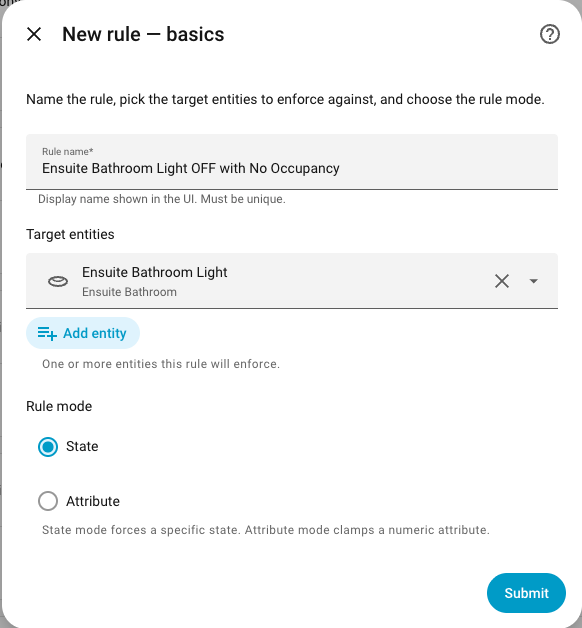
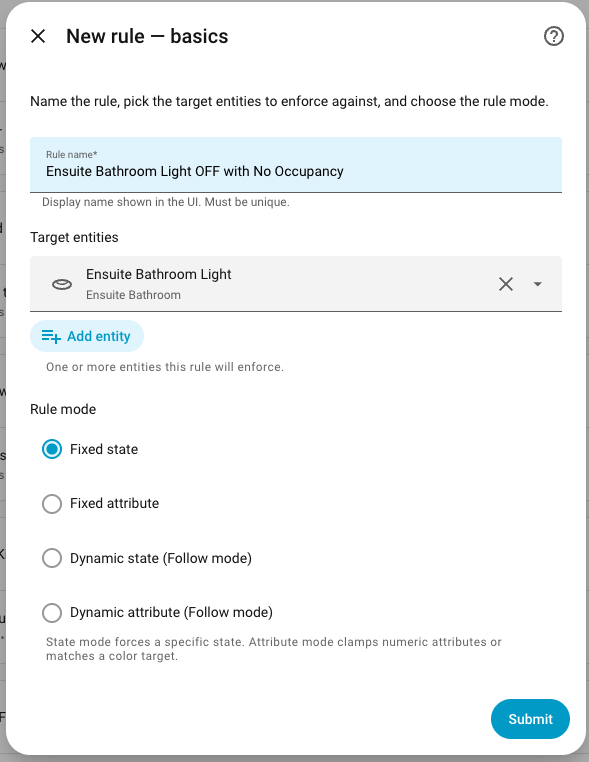
docs: refresh screenshots and fix stale docs (#83)
- Add missing screenshots (03d dynamic state, 03e dynamic attribute,
  16 trigger picker) that README referenced but did not exist
- Replace stale 02_rule_basics (4 modes incl. Follow) and 14_card_editor
  (Config/Visibility/Layout tabs, Show conditions toggle)
- README: fix dynamic-state delay (split on/off), add Mode + Verify to
  card config section, fix event rule_id example (ULID -> UUID), drop
  resolved screenshot-placeholder comments
- info.md: add 0.5.0 What's new (any-rule triggers, BREAKING HA floor),
  "Flag conditions" -> "Conditions" vocab
- SECURITY.md: supported version 0.0.x -> 0.5.x
- assets/README.md: rewrite screenshot manifest to match actual files
- BEHAVIOR_REFERENCE.md: drop brittle const.py line-number cite
- Remove stale BACKLOG.md

diff --git a/README.md b/README.md
@@ -143,13 +143,13 @@ Dynamic state binds the target's **on/off** to a live value read from a **source
 | Read value from | **State** (default) — use the source's on/off state. **Attribute** — use one of the source's attributes instead. |
 | Source attribute | *(only when reading from an attribute)* Name of the source attribute to read. Its value is reduced to on/off: a non-zero number, or an on-ish state string, is **on**; `0`, an off-ish word, or empty is **off**. |
 | Invert | Off (default) = *mirror* (source on → target on). On = *invert* (source on → target off). |
-| Delay (seconds) | Wait this long before enforcing (0-86400) |
+| Delay when turning on (seconds) | Wait before driving a target on (0-86400) |
+| Delay when turning off (seconds) | Wait before driving a target off (0-86400) |
 
 Source on/off (when reading the **state**) is derived from a documented set of "on-ish" states (`on`, `home`, `open`, `unlocked`, `playing`, `active`, `cleaning`, `mowing`, `true`, `1`); any other live state is treated as off. When the source is `unavailable`/`unknown` (or a chosen source attribute is missing), the rule holds — no enforcement, no error. Enforcement is idempotent: the target changes only when its current on/off differs from the source-derived value.
 
 > **Tip — bind to a template.** Any entity can be a source, including a [Template helper](https://www.home-assistant.io/integrations/template/). Create a Template binary sensor whose `state` is any Jinja expression (combine several sensors, add time windows, whatever), then point a dynamic rule's source at that helper — the target now follows your template's result, with all of Entity Guard's debounce / delay / conditions / rate-limiting on top.
 
-<!-- SCREENSHOT PLACEHOLDER: replace with latest UX. -->
 ![Step 2c: Dynamic State Mode](assets/03d_dynamic_state.png)
 
 ### Step 2d: Dynamic Attribute Mode (Follow mode)
@@ -166,7 +166,6 @@ Dynamic attribute binds a target **attribute** to a live value read from a **sou
 
 The read value is copied to the target attribute as-is (v1: raw copy, no range scaling — make sure the source value's type and range suit the target attribute, e.g. a 0–255 brightness). The rule acts only while the target is on; a source that is unavailable/unknown, or a missing source attribute, holds the rule. Enforcement is idempotent: the target changes only when its current attribute value differs from the live source value (color within tolerance).
 
-<!-- SCREENSHOT PLACEHOLDER: replace with latest UX. -->
 ![Step 2d: Dynamic Attribute Mode](assets/03e_dynamic_attribute.png)
 
 ### Step 2e: Optional Features
@@ -481,7 +480,7 @@ The card shows:
 - Bound entities with compliance state (✓ compliant / ⚠ violation); state values show translated labels where HA's device_class provides one — `Clear (off)`, `Detected (on)` — or label-only when the label is just a capitalised raw value (`Off`); non-compliant rows translate both sides: `Detected (on) → Clear (off) ⚠`. **Clicking any entity row opens the HA more-info dialog for that entity.** When status is `pending`, a live countdown row appears under each entity that is awaiting enforcement — e.g. `⏱ Enforcing in 14 s` — ticking every second and disappearing once the rule fires or conditions clear.
 - Optional **Conditions** section (`show_conditions: true`) — lists each flag with current vs required state translated the same way; useful when status is `conditional`. **Each condition row is also clickable** (opens more-info for the flag entity). The Conditions section also **auto-shows whenever status is `conditional`** (even with `show_conditions: false`), so a blocked rule always explains itself; `show_conditions: true` still forces it on for every state.
 - A **"Targets needing attention"** panel appears automatically when a bound target's last enforcement **failed** (service error) or hit a **misconfiguration** (`no_service_mapping` — a target whose state can't be driven). Each row shows the target, the outcome, and the reason/error on hover. Benign/transient waits (target off, source offline) are not listed, and the panel self-hides once every target is healthy.
-- Optional **Configuration** section (`show_config: true`) — shows Delay, Debounce ("Disabled" when off), and Loop protection ("auto-suppress for 15 min above N/min" when on) for the rule.
+- Optional **Configuration** section (`show_config: true`) — shows Mode, Delay (split into on/off for dynamic state rules), Debounce ("Disabled" when off), Verify, and Loop protection ("auto-suppress for 15 min above N/min" when on) for the rule.
 - Optional action buttons (Test Enforce, Reset Cooldowns when active, Clear History, Suppress 1h)
 
 **Normal state — rule idle**
@@ -547,7 +546,7 @@ automation:
     - platform: event
       event_type: entity_guard_enforced
       event_data:
-        rule_id: "01KSXDM1GN9WGQCSTFAX0Y1HNS"
+        rule_id: "54a6b7be-5da0-43cc-b7f1-2cc5ec03e98e"
   action:
     - service: notify.mobile_app_my_phone
       data:

diff --git a/assets/README.md b/assets/README.md
@@ -7,14 +7,25 @@ Expected filenames:
 | File | Subject |
 |------|---------|
 | `00_banner.png` | Top-of-README hero banner |
-| `02_rule_basics.png` | Config flow Step 1 — name, target entities, mode |
-| `03a_state_mode.png` | Config flow Step 2a — state mode fields |
-| `03b_attribute_mode.png` | Config flow Step 2b — attribute mode fields |
-| `04_flags.png` | Config flow Step 3 — flag list editor |
-| `05_advanced.png` | Config flow Step 4 — debounce + rate limit |
-| `06_safety_ack.png` | Config flow Step 5 — safety acknowledgment |
-| `07_preview.png` | Config flow Step 6 — preview / confirm |
-| `10_card.png` | Custom Lovelace card single-rule preview |
-| `11_dashboard.png` | Multi-card dashboard example |
+| `02_rule_basics.png` | Config flow Step 1 — name, target entities, rule mode (four modes) |
+| `03a_state_mode.png` | Config flow Step 2a — fixed state mode fields |
+| `03b_attribute_mode.png` | Config flow Step 2b — choose fixed attribute |
+| `03c_attribute_params_numeric.png` | Step 2b — numeric attribute clamp params |
+| `03c_attribute_params_rgb.png` | Step 2b — RGB color match params |
+| `03c_attribute_params_kelvin.png` | Step 2b — color-temperature (Kelvin) params |
+| `03c_optional_features.png` | Step 2e — optional features picker |
+| `03d_dynamic_state.png` | Step 2c — dynamic state (Follow mode) fields |
+| `03e_dynamic_attribute.png` | Step 2d — dynamic attribute (Follow mode) fields |
+| `04_flags.png` | Step 3 — conditions list editor |
+| `05_advanced.png` | Step 4 — debounce + loop protection |
+| `06_safety_ack.png` | Step 5 — safety acknowledgment |
+| `07_preview.png` | Step 6 — preview / confirm |
+| `10_card_idle.png` | Card — idle state |
+| `11_card_armed.png` | Card — armed state |
+| `12_card_suppressed.png` | Card — suppressed state |
+| `13_card_actions.png` | Card — actions panel open |
+| `14_card_editor.png` | Card — editor (Config / Visibility / Layout tabs) |
+| `15_dashboard.png` | Multi-card dashboard example |
+| `16_trigger_picker.png` | Automation editor — Entity Guard trigger picker (seven events) |
 
 Capture screenshots in light theme at 1x DPR for HACS / GitHub rendering.

diff --git a/info.md b/info.md
@@ -2,6 +2,11 @@
 
 Declarative state-enforcement rules. Bind one or more entities to a rule that defines a trigger condition and a desired target state — Entity Guard enforces it automatically, with cooldowns, suppression, rate limiting, and a custom dashboard card.
 
+## What's new in 0.5.0
+
+- **Any-rule automation triggers** -- all seven rule events (enforced, skipped, loop detected, suppressed, verified, unreachable, cancelled) are pickable straight from the automation editor. Leave the **Rule** field empty to fire for *any* rule, or scope to one -- no hand-typed `event` trigger, no `rule_id` lookup.
+- **BREAKING: minimum Home Assistant is now 2026.7.0** (was 2024.1.0) -- required for the single-generation trigger platform. On older cores, stay on 0.4.x or use the event-based automation patterns.
+
 ## What's new in 0.4.0
 
 - **Dynamic rule modes (Follow mode)** -- a rule's target value can be read live from a source entity instead of typed; "light follows motion" is now one rule, not two. Fixed and Dynamic variants of both state and attribute modes.
@@ -26,7 +31,7 @@ Declarative state-enforcement rules. Bind one or more entities to a rule that de
 
 - **Multi-entity rules** — one rule binds 1+ target entities, each evaluated independently
 - **Four modes** — Fixed state (force an entity to a target state, including non-on/off targets like climate HVAC modes, vacuum, media transport, input_select options, water_heater modes), Fixed attribute (clamp brightness/volume/temperature/percentage or match a color), and the Dynamic (Follow mode) counterparts that read the target value live from a source entity
-- **Flag conditions** — optional `(entity, match_state)` AND-list; rule arms only when all flags match
+- **Conditions** — optional `(entity, match_state)` AND-list; rule arms only when all conditions match
 - **Cooldown / debounce** — per-entity cooldown after enforcement to avoid loop fights
 - **Rate limiting** — per-rule cap on enforcements per minute; exceeding it auto-suppresses the rule
 - **Suppression** — temporary pause via service call or card button; permanent disable via the `enabled` switch

diff --git a/BEHAVIOR_REFERENCE.md b/BEHAVIOR_REFERENCE.md
@@ -6,7 +6,7 @@ For ready-made automations that consume these events see
 [`AUTOMATION_EXAMPLES.md`](AUTOMATION_EXAMPLES.md).
 
 Source of truth: `custom_components/entity_guard/rule_engine.py`. Event names:
-`const.py` (`EVENT_*`, lines 368-392).
+`const.py` (the `EVENT_*` constants).
 
 ---
 

diff --git a/SECURITY.md b/SECURITY.md
@@ -4,7 +4,7 @@
 
 | Version | Supported |
 | ------- | --------- |
-| 0.0.x   | ✅        |
+| 0.5.x   | ✅        |
 
 ## Reporting a Vulnerability
 
